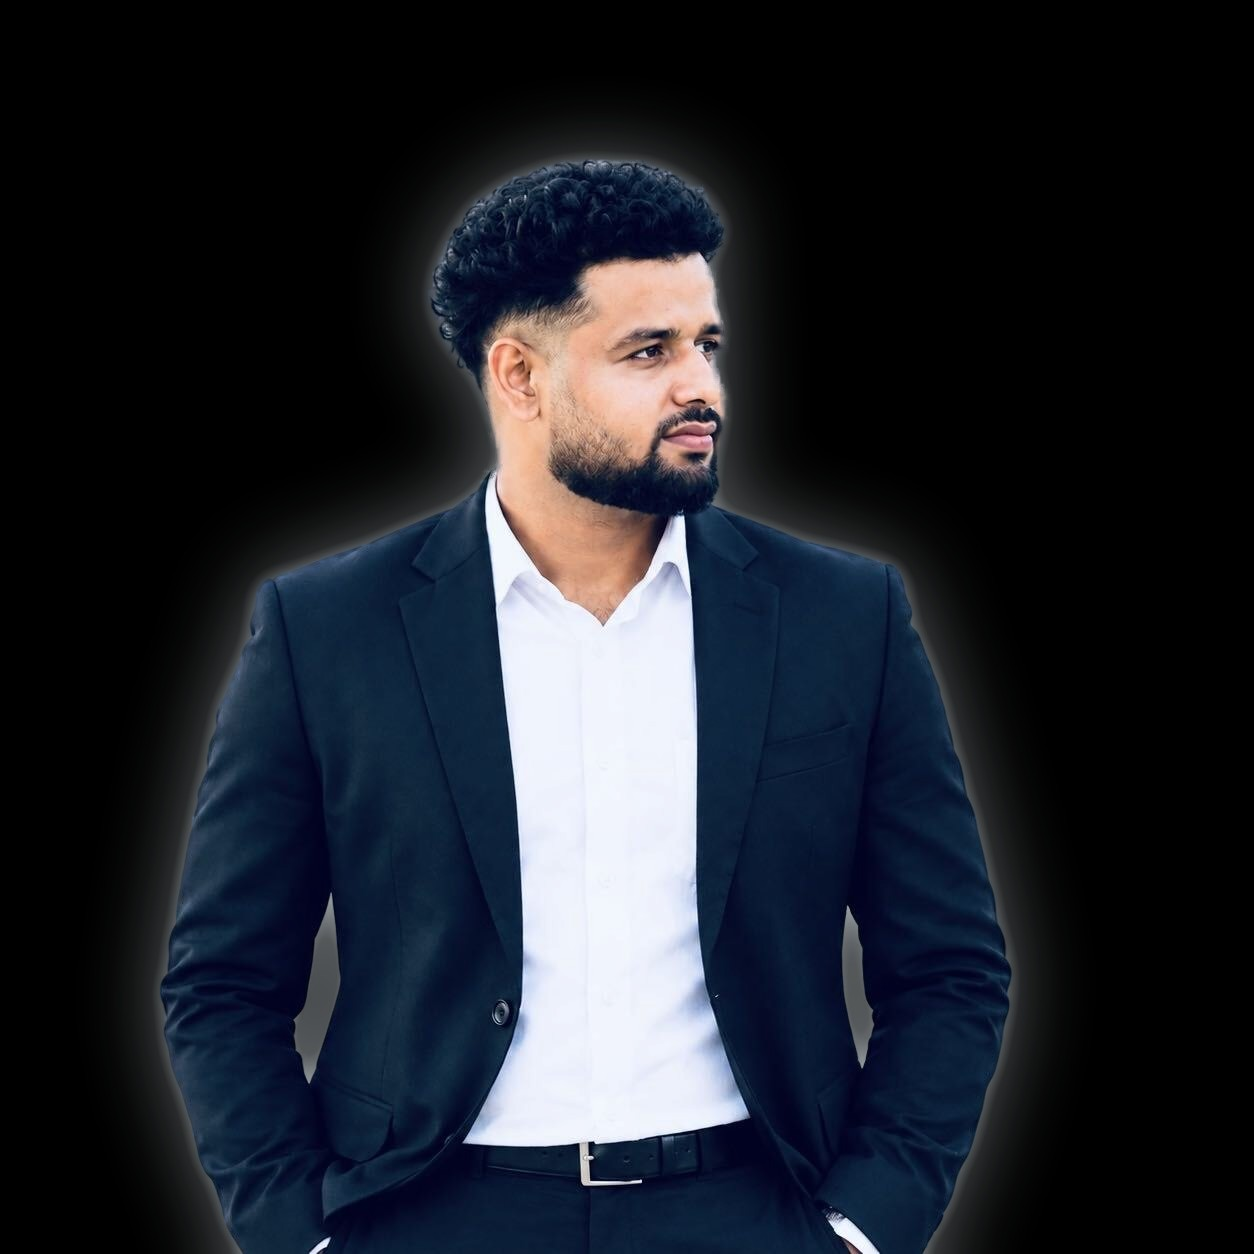
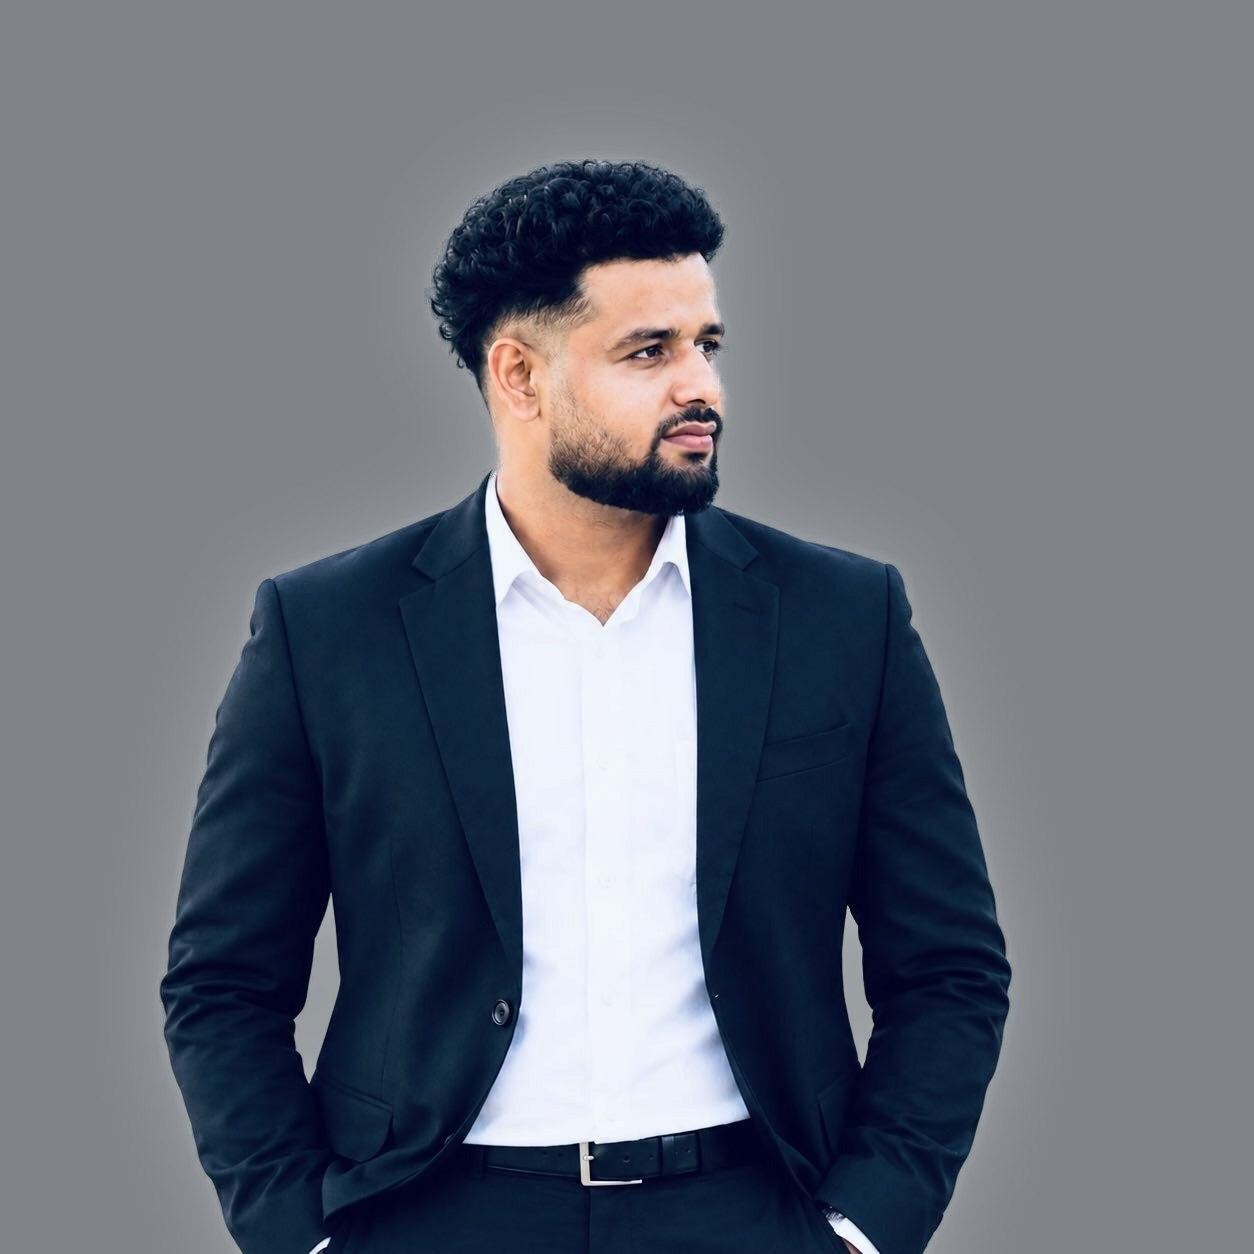
Grey photo background and slower square animation

diff --git a/index.html b/index.html
@@ -62,7 +62,7 @@ section+section{border-top:1px solid rgba(255,255,255,.08)}
 .readout b{font-stretch:62%;font-weight:800;font-size:32px;line-height:1}
 .readout span{font-family:var(--mono);font-size:10.5px;letter-spacing:.06em;text-transform:uppercase;color:var(--on-dark-muted)}
 .feed{position:relative;justify-self:end;width:100%;max-width:360px}
-.feed .frame{position:relative;aspect-ratio:4/5;overflow:hidden;background:#000;border:1px solid rgba(255,255,255,.2)}
+.feed .frame{position:relative;aspect-ratio:4/5;overflow:hidden;background:#777;border:1px solid rgba(255,255,255,.2)}
 .feed img{width:100%;height:100%;object-fit:cover;object-position:50% 12%;filter:grayscale(1) contrast(1.1) brightness(.9);display:block}
 .feed .shatter{position:absolute;inset:0;width:100%;height:100%;display:block}
 .feed .frame.live img{visibility:hidden}
@@ -774,7 +774,7 @@ section+section{border-top:1px solid rgba(255,255,255,.08)}
   if (!img) return;
   const cv = document.createElement('canvas'); cv.className = 'shatter'; cv.setAttribute('aria-hidden', 'true');
   const ctx = cv.getContext('2d'), src = document.createElement('canvas'), sctx = src.getContext('2d', { willReadFrequently: true });
-  const T = 4, G = 3200, HOLD = 3.2;            // tile px, gravity px/s², intact pause s
+  const T = 4, G = 900, HOLD = 3.2;            // tile px, gravity px/s², intact pause s
   let W = 0, H = 0, dpr = 1, tiles = [], fallEnd = 0, fillEnd = 0, t0 = 0, raf = 0, visible = true;
 
   function build() {
@@ -800,12 +800,12 @@ section+section{border-top:1px solid rgba(255,255,255,.08)}
     for (let ry = 0; ry < rows; ry++) for (let cx = 0; cx < cols; cx++) {
       const up = 1 - ry / rows, x = cx * T, y = ry * T;
       // drain: bottom rows let go first, with a rippling wave across columns
-      const rel = up * 1.1 + Math.random() * .25 + .18 * (1 + Math.sin(cx * .45 + ry * .08));
+      const rel = up * 2.2 + Math.random() * .4 + .18 * (1 + Math.sin(cx * .45 + ry * .08));
       // refill: pieces rain in from above and settle bottom-up, like a glass filling
-      const land = up * 1.9 + Math.random() * .3 + .1 * (1 + Math.sin(cx * .3));
+      const land = up * 2.6 + Math.random() * .4 + .1 * (1 + Math.sin(cx * .3));
       const drop = Math.sqrt(2 * (y + T + 40) / G);
       tiles.push({ x, y, rel, land, drop, ph: Math.random() * 6.283, sw: 6 + Math.random() * 14 });
-      fallEnd = Math.max(fallEnd, rel + .7); fillEnd = Math.max(fillEnd, land);
+      fallEnd = Math.max(fallEnd, rel + 1.5); fillEnd = Math.max(fillEnd, land);
     }
     return true;
   }
@@ -823,7 +823,7 @@ section+section{border-top:1px solid rgba(255,255,255,.08)}
         const s = t - k.rel;
         if (s <= 0) { ctx.drawImage(src, k.x * dpr, k.y * dpr, S, S, k.x, k.y, T, T); continue; }
         const y = k.y + .5 * G * s * s; if (y > H) continue;
-        const x = k.x + Math.sin(k.ph + s * 7) * k.sw * s, a = Math.max(0, 1 - s / .7), z = T * (1 - s * .5);
+        const x = k.x + Math.sin(k.ph + s * 7) * k.sw * s, a = Math.max(0, 1 - s / 1.5), z = T * (1 - s * .3);
         ctx.globalAlpha = a; ctx.drawImage(src, k.x * dpr, k.y * dpr, S, S, x, y, z, z); ctx.globalAlpha = 1;
       }
       return;
